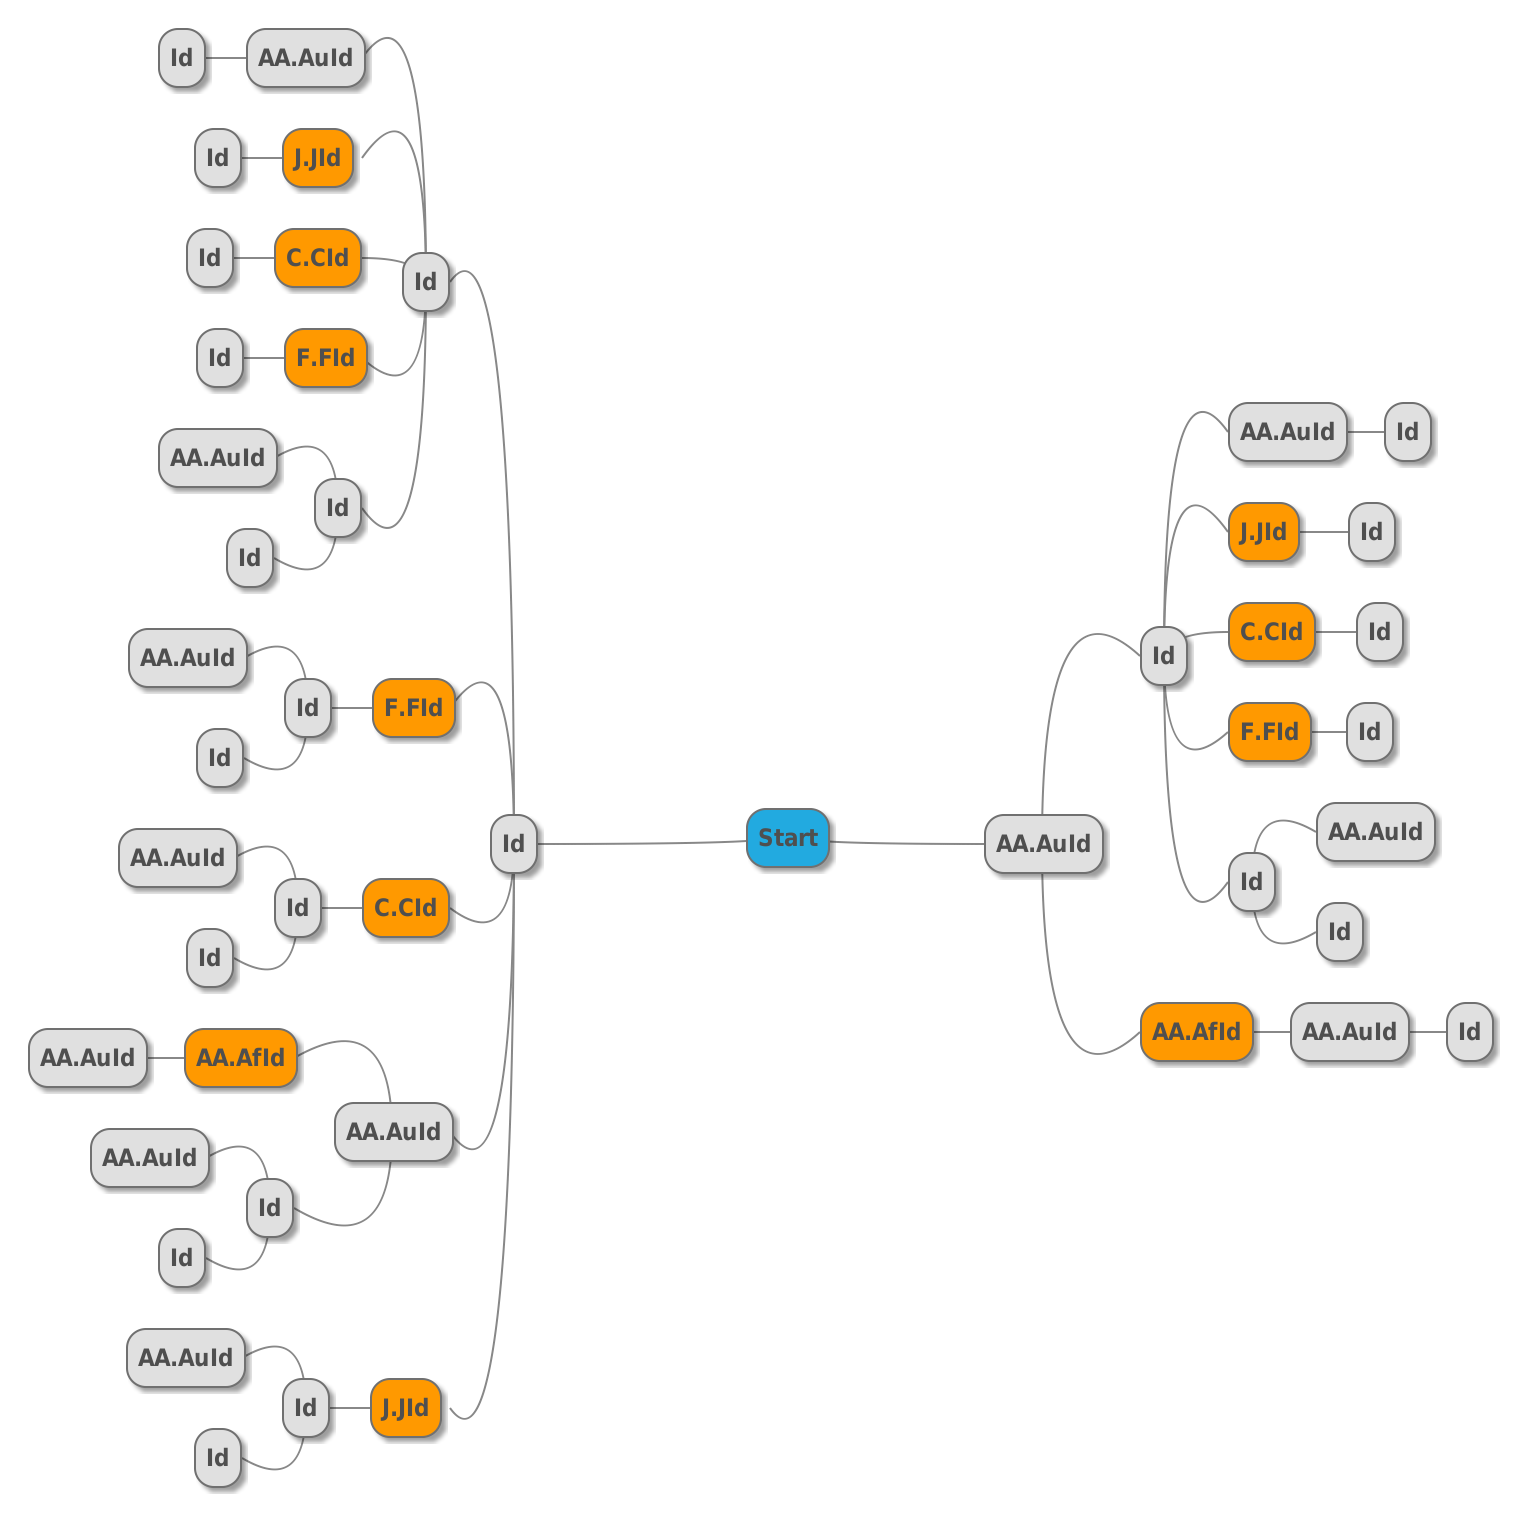
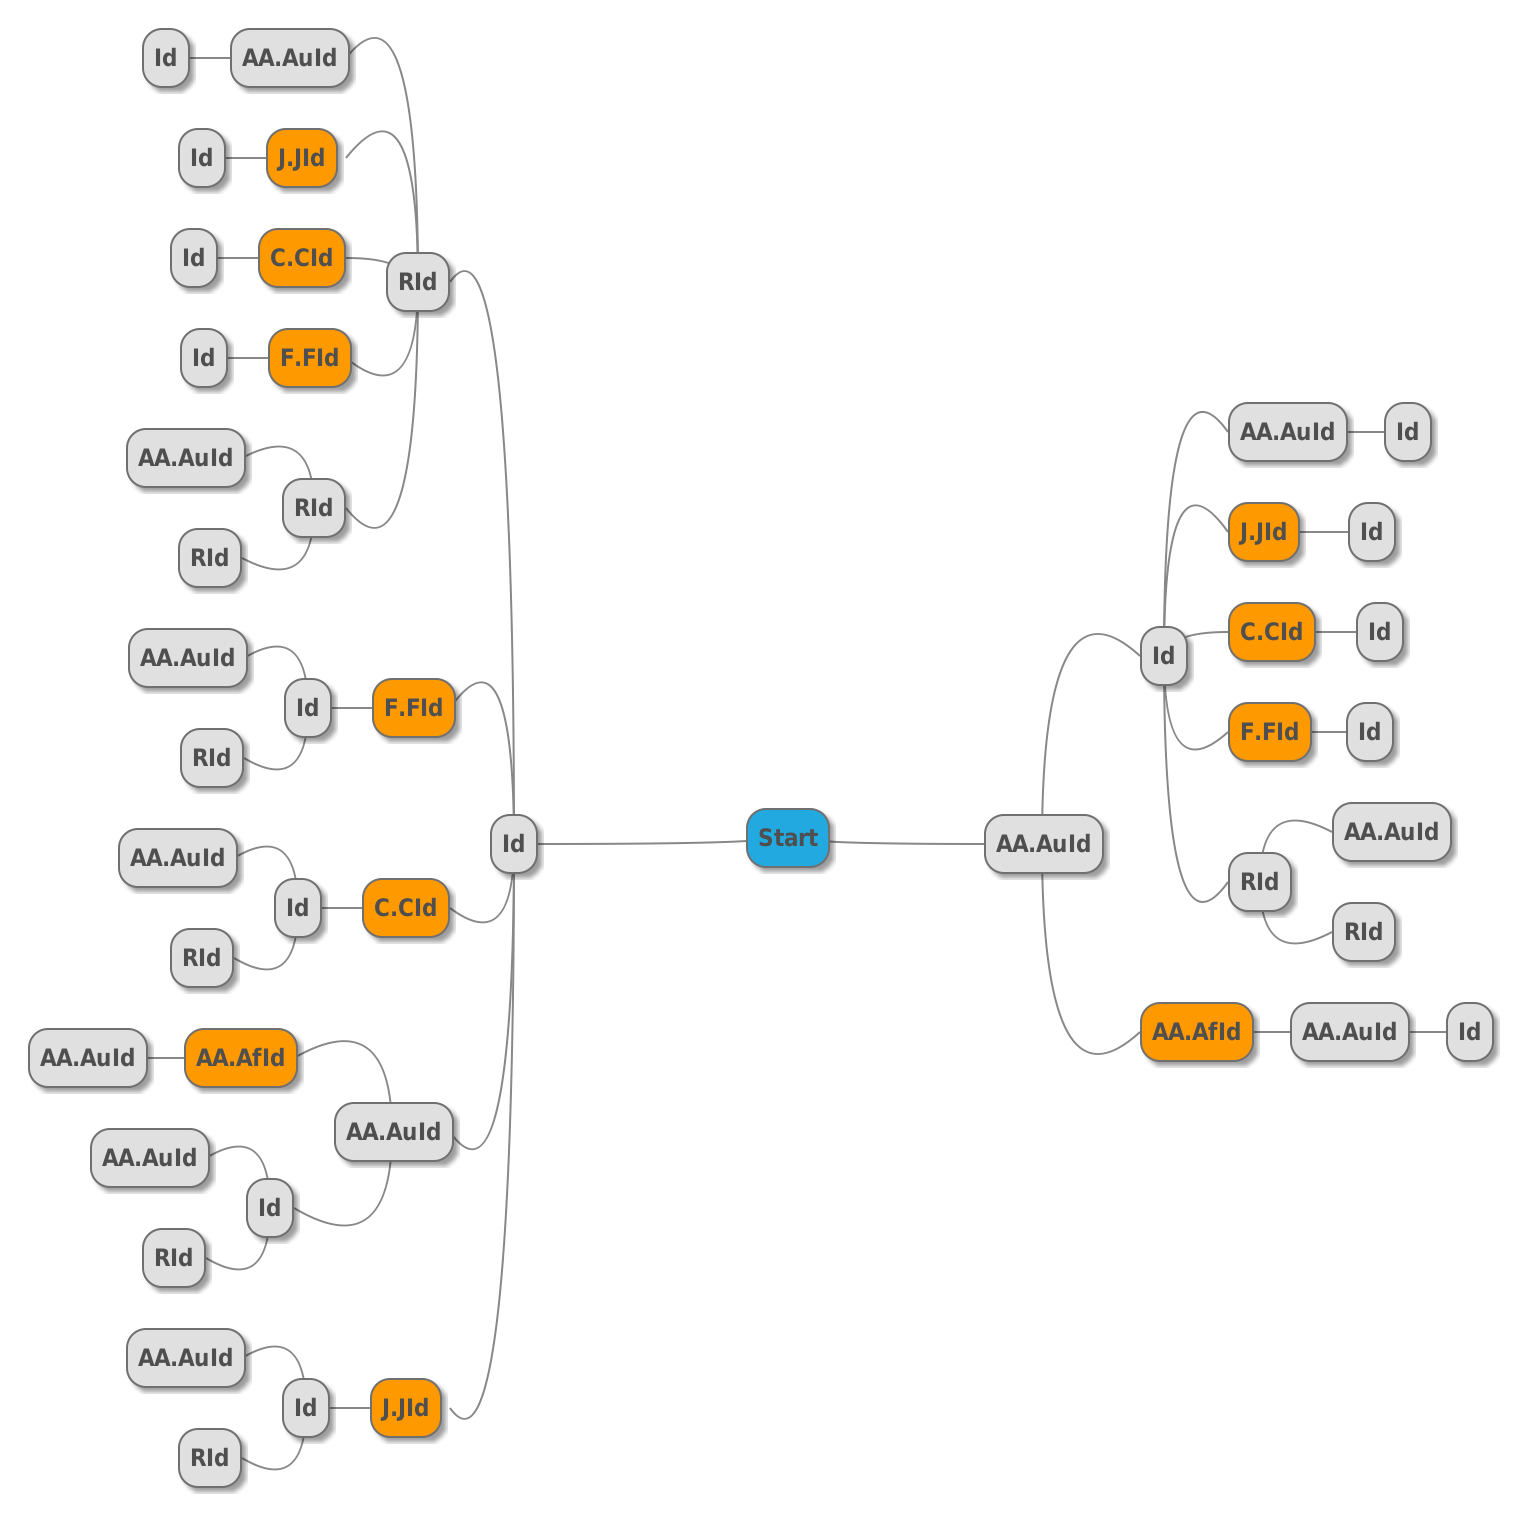
add doc sample and stage picture fix bug

diff --git a/doc/Id_Id_*.md b/doc/Id_Id_*.md
@@ -1,0 +1,34 @@
+#### `Id->RId->AA.AuId->Id`
+
+1. 阶段分析：由论文的RId发出请求，并且最后一个Id也是已知的，可以分别找出RId与Id的AA.AuId，并且判断他们之间是否有共同作者。
+
+2. 数据请求1:
+    1. 查询参数
+    ```
+        expr: Id=RId
+        count: 1
+        attributes: AA.AuId
+    ```
+    2. 数据处理方式: 保存返回数据中的AA.AuId域
+
+2. 数据请求2:
+    1. 查询参数
+    ```
+        expr: Id=Id
+        count: 1
+        attributes: AA.AuId
+    ```
+    2. 数据处理方式: 保存返回数据中的AA.AuId域
+
+3. 结果处理: 拿到以上两个请求的数据后，判断以上数据是否存在共同的AA.AuId，对于共同的AA.AuId构造`[Id, RId, AA.AuId]`加入2-hop结果集，构造`[Id, RId, AA.AuId, Id]`加入3-hop结果集
+
+4. 请求数量计算，cost预估。
+```
+    total request: 2 * Rid count
+    total time: 2 * Rid count
+    cpu cost operation: 0
+```
+
+#### `Id->RId->J.Jid->Id`
+
+1. 阶段分析: 由论文的Rid发出请求，而且最后的i
